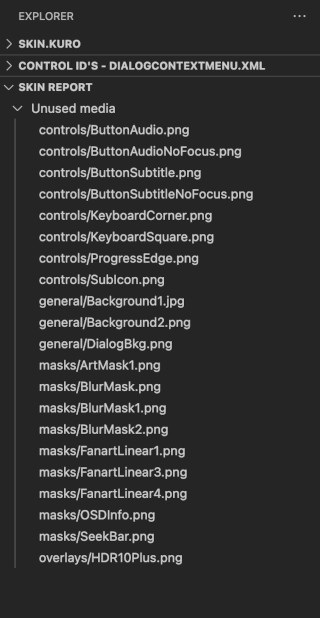
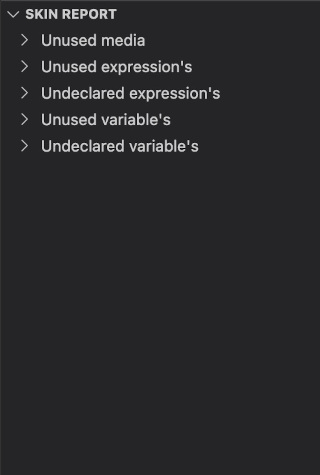
0.3.2

Changed region(s): [[0.0, 0.0, 0.8438, 0.9137], [0.0, 0.0589, 0.0312, 0.1474], [0.9062, 0.0, 0.9688, 0.0295]]

diff --git a/README.md b/README.md
@@ -58,7 +58,7 @@ Show all the used control id's for the open xml document, and for known skin fil
 ![IDView](resources/readme/idview.jpg)
 
 ## Skin reports
-Scan the skin and find any unused media files.
+Scan the skin and find any unused media files, expressions and variables.
 
 ![Report](resources/readme/report.jpg)
 
